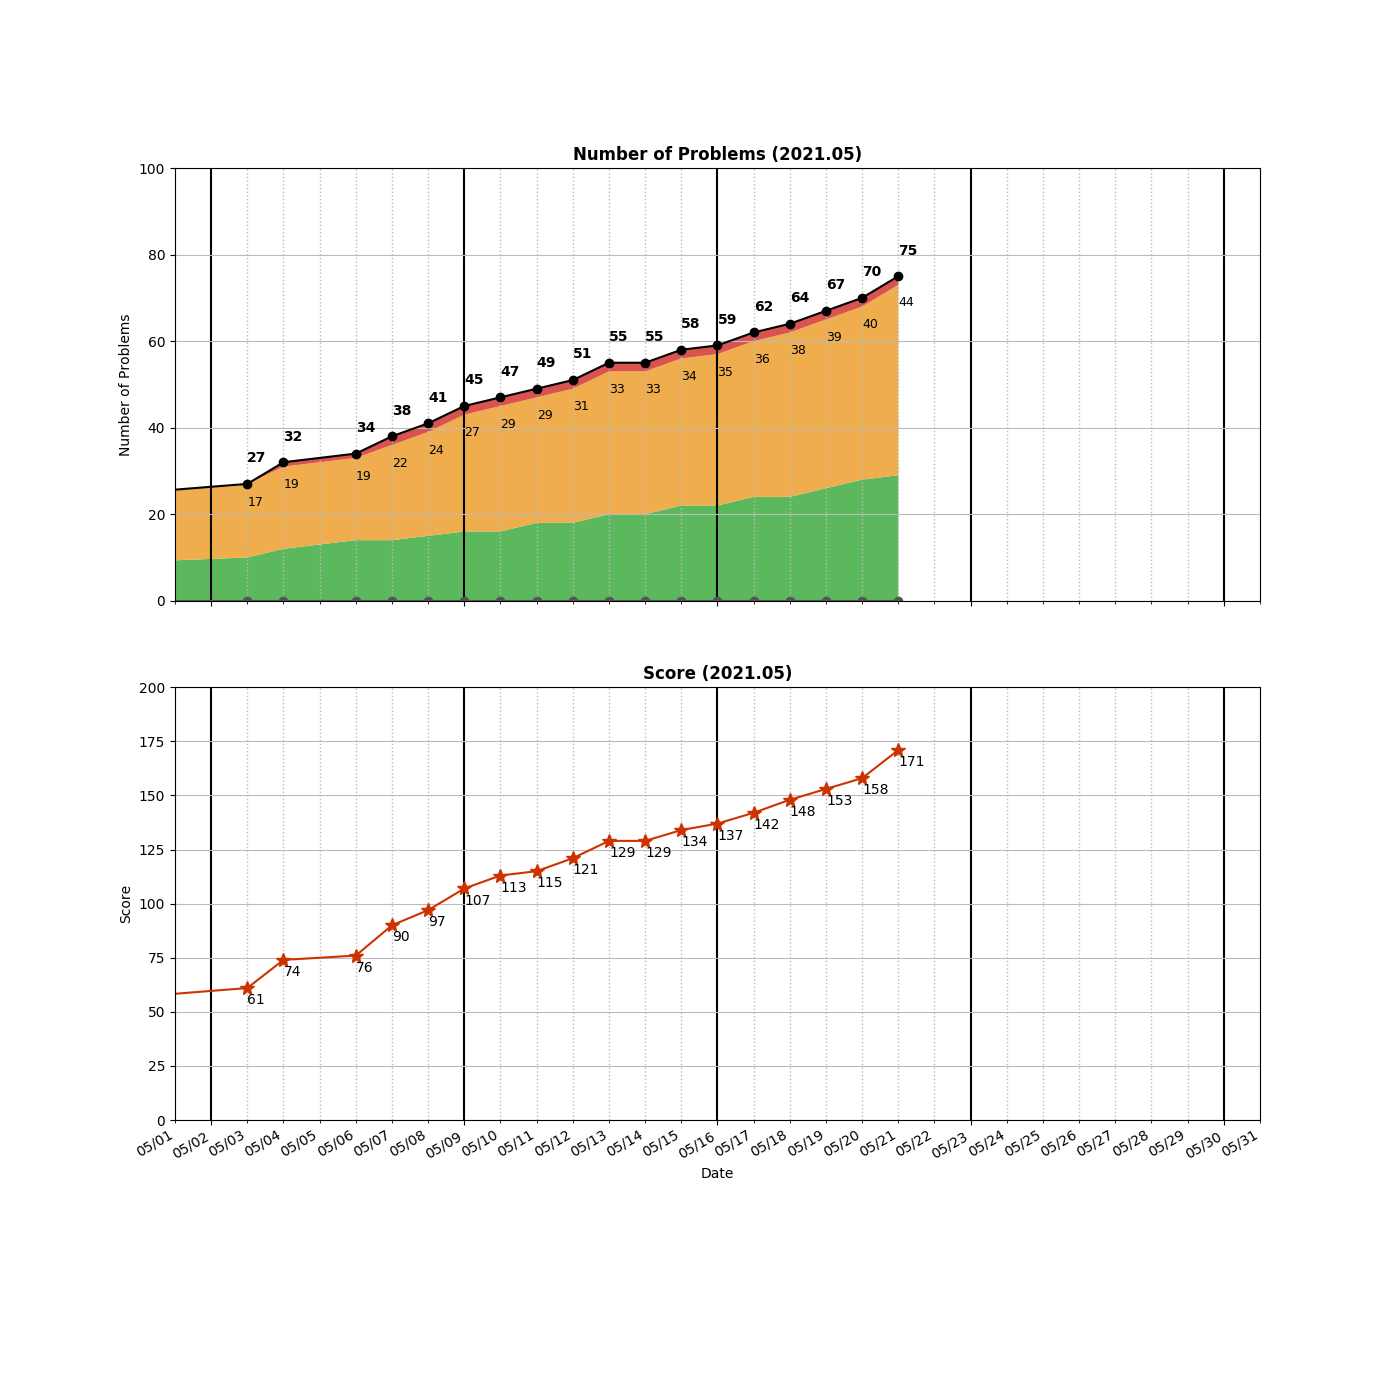
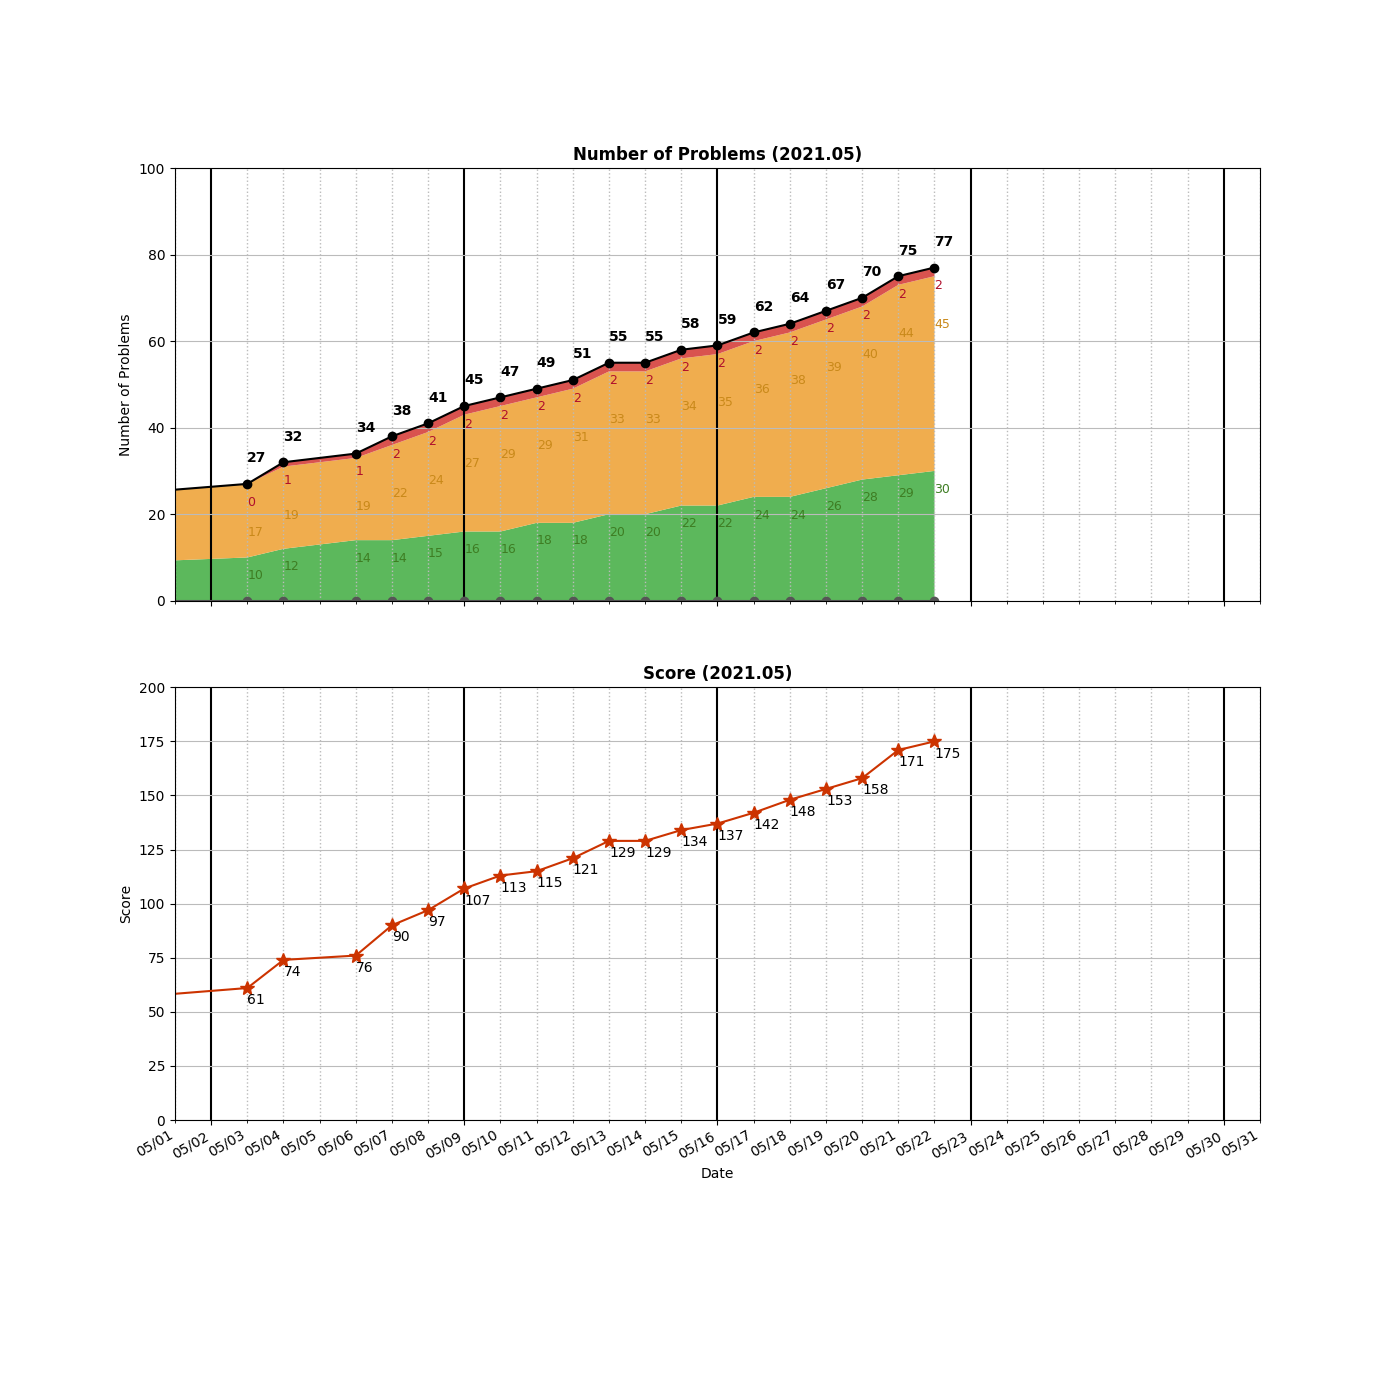
Added QuickSort, MergeSort for __0912__Sort an Array.py

Changed region(s): [[0.6143, 0.1843, 0.6757, 0.43], [0.645, 0.5221, 0.6757, 0.5529]]

diff --git a/algo/Two-Pointer/__0912__Sort an Array.py b/algo/Two-Pointer/__0912__Sort an Array.py
@@ -1,0 +1,90 @@
+class Solution:
+    
+    # ================================================
+    # Merge Sort (Java style) [Time: O(nlogn), 11% / Space: O(n), 47%]
+    def sortArray(self, nums: List[int]) -> List[int]:
+        print("MergeSort (Java Style)")
+        def mergeSort(nums, start, end, temp):
+            #print("mergeSort(", start, ",", end, ")")
+            if start >= end:
+                return 
+            mid = start + (end - start) // 2
+            
+            mergeSort(nums, start, mid, temp)
+            mergeSort(nums, mid + 1, end, temp)
+            
+            merge(nums, start, end, temp) 
+            return 
+        
+        # Merge 2 list starting from "start" and "mid + 1"
+        def merge(nums, start, end, temp):
+            #print(">> merge(", start, ",", end, ")", nums)
+            mid = start + (end - start) // 2
+            left = start
+            right = mid + 1 
+            idx = start
+            
+            while left <= mid and right <= end:
+                if nums[left] <= nums[right]:
+                    temp[idx] = nums[left]
+                    left += 1
+                    idx += 1
+                else:
+                    temp[idx] = nums[right]
+                    right += 1
+                    idx += 1  
+                    
+            # If there is leftover in left
+            while left <= mid:
+                temp[idx] = nums[left] 
+                left += 1
+                idx += 1
+            # If there is leftover in right
+            while right <= end:
+                temp[idx] = nums[right] 
+                right += 1
+                idx += 1
+            
+            # Pass the element back to nums 
+            for i in range(start, end + 1):  # only this interval, not whole nums
+                nums[i] = temp[i]
+
+                
+        temp = [0] * len(nums)
+        mergeSort(nums, 0, len(nums) - 1, temp)
+        
+        return nums
+        
+    # ================================================
+    # Quick Sort [Time: O(nlogn), 43% / Space: O(1), 47%]
+    def sortArray2(self, nums: List[int]) -> List[int]:
+        print("QuickSort")
+        def partition(nums, start, end):
+            #print("start:", start, " end:", end)
+            if start >= end:
+                return 
+            left, right = start, end
+            mid = left + (right - left) // 2
+            #mid = left  #TLE
+            pivot = nums[mid]
+            
+            while left <= right:
+                while left <= right and nums[left] < pivot:
+                    left += 1
+                while left <= right and nums[right] > pivot:
+                    right -= 1
+                if left <= right:
+                    nums[left], nums[right] = nums[right], nums[left]
+                    left += 1 
+                    right -= 1
+            partition(nums, start, right)
+            partition(nums, left, end)
+            
+        partition(nums, 0, len(nums) - 1)
+        return nums
+            
+    # ================================================
+    
+    # Built-in Sort [O(nlogn), 75%]
+    def sortArray1(self, nums: List[int]) -> List[int]:
+        return sorted(nums)

diff --git a/algodraw.py b/algodraw.py
@@ -201,9 +201,9 @@ def draw(dates, values):
     #     axs[0].annotate(str(j), xy=(i, j + annotate_y_offset - 5))
     for i in range(len(leetnumber)):
         axs[0].annotate(leetnumber[i]  , xy=(dates[i], leetnumber[i] + annotate_y_offset ), fontweight = 'bold')
-        #axs[0].annotate(hardNumber[i]  , xy=(dates[i], leetnumber[i] - annotate_y_offset - 0), fontsize = 9)
-        axs[0].annotate(mediumNumber[i], xy=(dates[i], easyNumber[i] + mediumNumber[i] - annotate_y_offset), fontsize = 9)
-        #axs[0].annotate(easyNumber[i]  , xy=(dates[i], easyNumber[i] - annotate_y_offset) ,fontsize = 9)
+        axs[0].annotate(hardNumber[i]  , xy=(dates[i], leetnumber[i] - annotate_y_offset ), fontsize = 9, color='#b00e2c')
+        axs[0].annotate(mediumNumber[i], xy=(dates[i], easyNumber[i] + mediumNumber[i] - annotate_y_offset - 7), fontsize = 9 , color='#c9891a')
+        axs[0].annotate(easyNumber[i]  , xy=(dates[i], easyNumber[i] - annotate_y_offset) ,fontsize = 9, color='#3e7d23')
 
     # review number (gray line)
     # for i in range(len(reviewNumber)):
